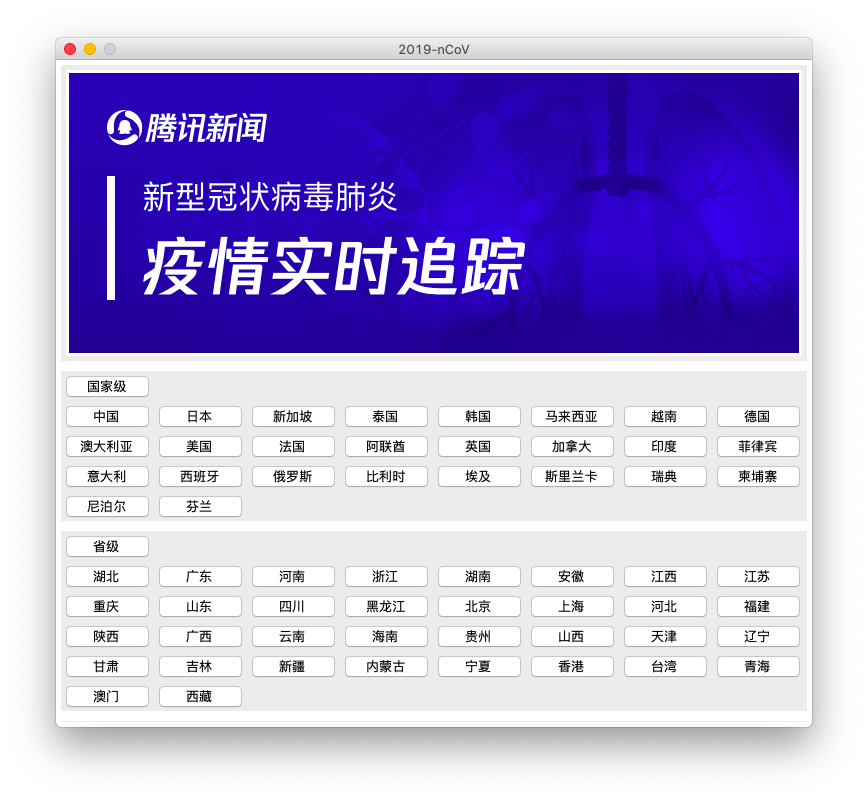
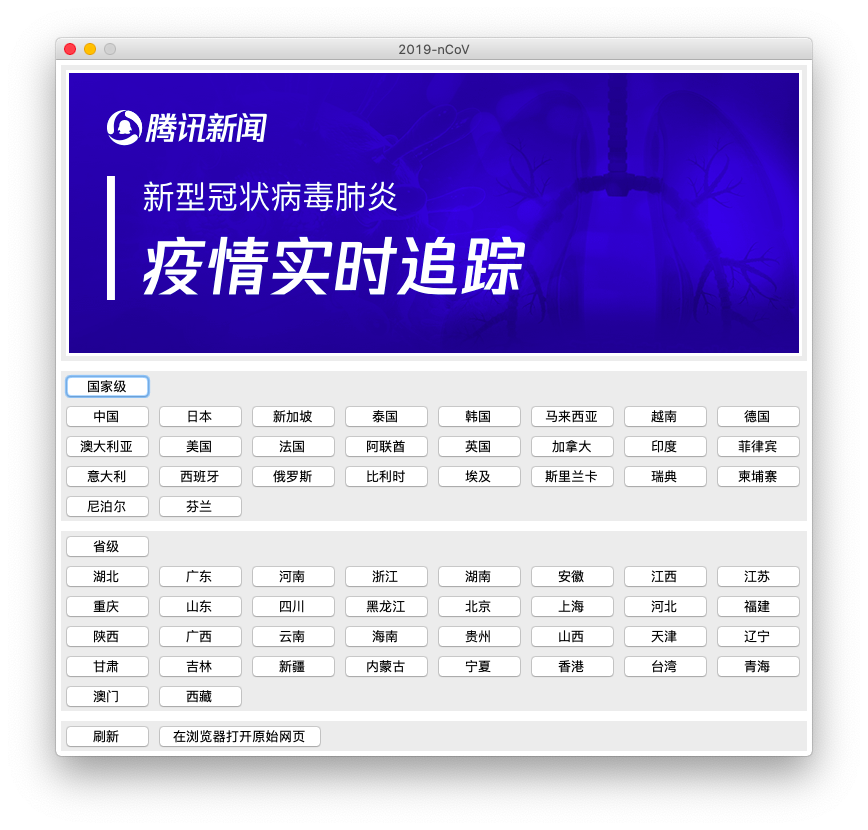
Finished all the functions

diff --git a/ui.py b/ui.py
@@ -9,7 +9,8 @@ Copyrights (c) 2020 Modnar. All rights reserved.
 '''
 
 import os, tkinter
-from tkinter import ttk
+import webbrowser
+from tkinter import ttk, messagebox
 from PIL import Image, ImageTk
 
 import numpy as np
@@ -62,8 +63,8 @@ class MainWindow(object):
         self.ph = ImageTk.PhotoImage(im)
         self.canvas.create_image(0, 0, image=self.ph, anchor=tkinter.NW)
 
-        worldButton = ttk.Button(self.countriesFrame, text='国家级',
-                command = self.queryWorld)
+        worldButton = ttk.Button(self.countriesFrame, text='国家级', \
+                command=self.queryWorld)
         worldButton.grid(padx=3, pady=3, row=0, column=0)
         self.buttons = []   # 程序按钮集合(2维数组: 0维度为国家级；1维度为省级)
         buttonList = []
@@ -73,8 +74,8 @@ class MainWindow(object):
             buttonList[i].grid(padx=3, pady=3, row=i//8+1, column=i%8)
         self.buttons.append(buttonList.copy())
 
-        chinaButton = ttk.Button(self.provincesFrame, text='省级',
-                command = self.queryChina)
+        chinaButton = ttk.Button(self.provincesFrame, text='省级', \
+                command=self.queryChina)
         chinaButton.grid(padx=3, pady=3, row=0, column=0)
         buttonList.clear()
         for i in range(len(self.names[1])):
@@ -82,6 +83,12 @@ class MainWindow(object):
                     command=self.maker(i, 1)))
             buttonList[i].grid(padx=3, pady=3, row=i//8+1, column=i%8)
         self.buttons.append(buttonList.copy())
+
+        ttk.Button(self.operationFrame, text='刷新', command=self.refresh) \
+                .grid(padx=3, pady=3, row=0, column=0)
+        ttk.Button(self.operationFrame, text='在浏览器打开原始网页', \
+                command=self.open_in_browser) \
+                .grid(padx=3, pady=3, row=0, column=1)
 
 
     '''
@@ -111,6 +118,7 @@ class MainWindow(object):
         root = tkinter.Toplevel()
         name = self.names[0][argv]
         root.title('%s' % name)
+        root.resizable(False, False)
         labelFrame = ttk.Frame(root)
         chartFrame = ttk.Frame(root)
         labelFrame.grid(padx=5, pady=5, row=0, column=0, sticky='nwe')
@@ -148,6 +156,7 @@ class MainWindow(object):
         root = tkinter.Toplevel()
         name = self.names[1][argv]
         root.title('%s' % name)
+        root.resizable(False, False)
         labelFrame = ttk.Frame(root)
         chartFrame = ttk.Frame(root)
         labelFrame.grid(padx=5, pady=5, row=0, column=0, sticky='nwe')
@@ -173,6 +182,7 @@ class MainWindow(object):
     def queryWorld(self):
         root = tkinter.Toplevel()
         root.title('世界疫情数据')
+        root.resizable(False, False)
         labelFrame = ttk.Frame(root)
         chartFrame = ttk.Frame(root)
         labelFrame.grid(padx=5, pady=5, row=0, column=0, sticky='nwe')
@@ -207,8 +217,61 @@ class MainWindow(object):
 
 
     def queryChina(self):
-        pass
+        root = tkinter.Toplevel()
+        root.title('中国疫情数据')
+        root.resizable(False, False)
+        labelFrame = ttk.Frame(root)
+        chartFrame = ttk.Frame(root)
+        labelFrame.grid(padx=5, pady=5, row=0, column=0, sticky='nwe')
+        chartFrame.grid(padx=5, pady=5, row=1, column=0, sticky='nwe')
 
+        data = datasource.china_data()
+        ttk.Label(labelFrame, text="数据(中国)最近更新时间: %s" % \
+                data['lastUpdateTime'], width=52, foreground='green') \
+                .grid(padx=5, pady=5, row=0, column=0, sticky='nwes')
+        d = data['total']
+        ttk.Label(labelFrame, text='累计确诊: %d例'%d['confirm'], \
+                font='Helvetica -18', foreground='purple') \
+                .grid(padx=5, pady=2, row=1, column=0, sticky='nwes')
+        ttk.Label(labelFrame, text='现有确诊: %d例'%d['nowConfirm'], \
+                font='Helvetica -18', foreground='red') \
+                .grid(padx=5, pady=2, row=2, column=0, sticky='nwes')
+        ttk.Label(labelFrame, text='累计治愈: %d例'%d['heal'], \
+                font='Helvetica -18', foreground='green') \
+                .grid(padx=5, pady=2, row=3, column=0, sticky='nwes')
+        ttk.Label(labelFrame, text='现有疑似: %d例'%d['suspect'], \
+                font='Helvetica -18', foreground='orange') \
+                .grid(padx=5, pady=2, row=4, column=0, sticky='nwes')
+        ttk.Label(labelFrame, text='累计死亡: %d例'%d['dead'], \
+                font='Helvetica -18', foreground='grey') \
+                .grid(padx=5, pady=2, row=5, column=0, sticky='nwes')
+        ttk.Label(labelFrame, text='现有重症: %d例'%d['nowSevere'], \
+                font='Helvetica -18', foreground='magenta') \
+                .grid(padx=5, pady=2, row=6, column=0, sticky='nwes')
+
+        create_table(labelFrame, data['children']).grid(padx=5, pady=10, row=0, \
+                column=1, rowspan=7, sticky='e')
+
+        canvas = tkinter.Canvas(chartFrame, bg='lightblue', width=900, height=350)
+        canvas.grid(padx=5, pady=5, row=0, column=0, sticky='nwes')
+        images = draw2(data)
+        im0 = images[0]
+        ph0 = ImageTk.PhotoImage(im0.resize((480, 360), Image.ANTIALIAS))
+        canvas.create_image(0, 0, image=ph0, anchor=tkinter.NW)
+        im1 = images[1]
+        ph1 = ImageTk.PhotoImage(im1.resize((480, 360), Image.ANTIALIAS))
+        canvas.create_image(440, 0, image=ph1, anchor=tkinter.NW)
+
+        root.mainloop()
+
+    
+    def refresh(self):
+        datasource.refresh()
+        messagebox.showinfo(title='REFRESH', message='数据刷新成功!')
+
+
+    def open_in_browser(self):
+        webbrowser.open('https://news.qq.com/zt2020/page/feiyan.htm?from=singlemessage')
 
 '''
 创造数据显示标签集合:
@@ -303,11 +366,11 @@ def draw(data, name):
     for x, y in zip(X2, Y2):
         plt.text(x, y, '以往: %d' % y, ha='center', va='top')
 
-    file_name = 'cache/img/%s.png' % name
-    plt.savefig(file_name)
+    img_name = 'cache/img/%s.png' % name
+    plt.savefig(img_name)
     plt.close()
-    image = Image.open(file_name)
-    os.remove(file_name)
+    image = Image.open(img_name)
+    os.remove(img_name)
     return image
 
 
@@ -325,11 +388,11 @@ def draw1(data):
     nums = [data[0]['total']['confirm'], others_total]
     plt.pie(nums, labels=labels, autopct='%.2f%%', shadow=True)
     plt.title('世界疫情数据')
-    name = 'cache/img/world_data.png'
-    plt.savefig(name); plt.close()
-    images.append(Image.open(name))
+    img_name = 'cache/img/world_data.png'
+    plt.savefig(img_name); plt.close()
+    images.append(Image.open(img_name))
     # image = Image.open('cache/img/world_data.png')
-    os.remove(name)
+    os.remove(img_name)
 
     labels = [item['name'] for item in data][1:11]
     nums = [item['total']['confirm'] for item in data][1:11]
@@ -346,10 +409,69 @@ def draw1(data):
             mpatches.Patch(color='green', label='治愈')]
     plt.legend(handles=patches, ncol=1, loc='best')
     plt.title('除中国外前10位国家地区疫情数据')
-    name = 'cache/img/world_data_1.png'
-    plt.savefig(name); plt.close()
-    images.append(Image.open(name))
-    os.remove(name)
+    img_name = 'cache/img/world_data_1.png'
+    plt.savefig(img_name); plt.close()
+    images.append(Image.open(img_name))
+    os.remove(img_name)
 
     return images
 
+
+def draw2(data):
+    images = []
+
+    X = [i for i in range(1, len(data['dayList'])+1)] 
+    dates = []; confirms = []; suspects = []; deads = []; heals = []
+    d = data['dayList']
+    for day in d:
+        dates.append(day['date'])
+        confirms.append(day['confirm'])
+        suspects.append(day['suspect'])
+        deads.append(day['dead'])
+        heals.append(day['heal'])
+    plt.plot(X, confirms, color='red')
+    plt.plot(X, suspects, color='orange')
+    plt.plot(X, deads, color='grey')
+    plt.plot(X, heals, color='green')
+    for x, y in zip(X[::2], confirms[::2]):
+        plt.text(x, y, '%d' % y, ha='center', va='center')
+    plt.xticks(X[::2], dates[::2], rotation=45)
+    patches = [mpatches.Patch(color='red', label='确诊'), \
+            mpatches.Patch(color='orange', label='疑似'), \
+            mpatches.Patch(color='grey', label='死亡'), \
+            mpatches.Patch(color='green', label='治愈')]
+    plt.legend(handles=patches, ncol=1, loc='best')
+    plt.title('中国疫情数据走势')
+    img_name = 'cache/img/china_data.png'
+    plt.savefig(img_name); plt.close()
+    images.append(Image.open(img_name))
+    os.remove(img_name)
+
+    X = [i for i in range(1, len(data['dayAddList'])+1)] 
+    dates = []; confirms = []; suspects = []; deads = []; heals = []
+    d = data['dayAddList']
+    for day in d:
+        dates.append(day['date'])
+        confirms.append(day['confirm'])
+        suspects.append(day['suspect'])
+        deads.append(day['dead'])
+        heals.append(day['heal'])
+    plt.plot(X, confirms, color='red')
+    plt.plot(X, suspects, color='orange')
+    plt.plot(X, deads, color='grey')
+    plt.plot(X, heals, color='green')
+    for x, y in zip(X[::2], confirms[::2]):
+        plt.text(x, y, '%d' % y, ha='center', va='center')
+    plt.xticks(X[::2], dates[::2], rotation=45)
+    patches = [mpatches.Patch(color='red', label='确诊增长数'), \
+            mpatches.Patch(color='orange', label='疑似增长数'), \
+            mpatches.Patch(color='grey', label='死亡增长数'), \
+            mpatches.Patch(color='green', label='治愈增长数')]
+    plt.legend(handles=patches, ncol=1, loc='best')
+    plt.title('中国疫情增长走势')
+    img_name = 'cache/img/china_data.png'
+    plt.savefig(img_name); plt.close()
+    images.append(Image.open(img_name))
+    os.remove(img_name)
+
+    return images

diff --git a/datasource.py b/datasource.py
@@ -41,6 +41,16 @@ def world_data():
     return (data['lastUpdateTime'], dics)
 
 
+def china_data():
+    dic = dict()
+    dic['lastUpdateTime'] = data['lastUpdateTime']
+    dic['total'] = data['chinaTotal']
+    dic['dayList'] = data['chinaDayList']
+    dic['dayAddList'] = data['chinaDayAddList']
+    dic['children'] = data['areaTree'][0]['children']
+    return dic
+
+
 def countries(idx):
     dic = dict()
     dic['name'] = data['areaTree'][idx]['name']

diff --git a/README.md b/README.md
@@ -28,7 +28,9 @@
 
 ![日本数据展示界面](res/example_japan.png)
 
-- [ ] 对于中国来说，针对各种数据展示进行完善。
+- [x] 对于中国来说，针对各种数据展示进行完善。
+
+![国家疫情数据展示界面](res/example_country.png)
 
 - _**省份级数据展示**_
 
